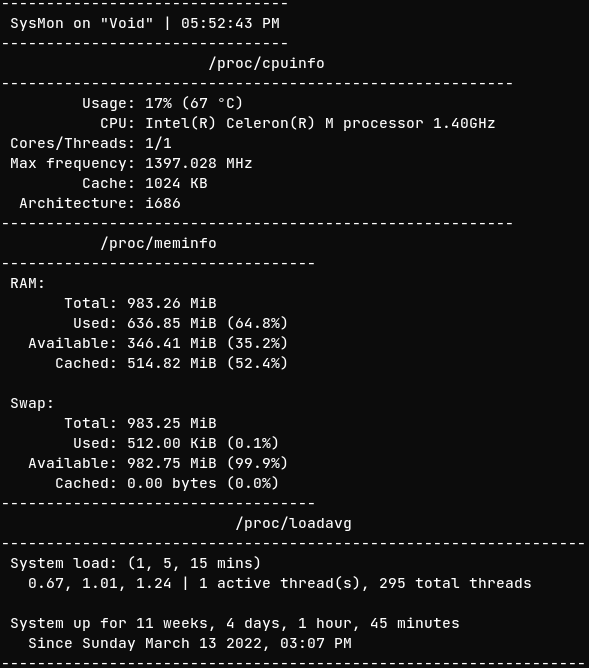
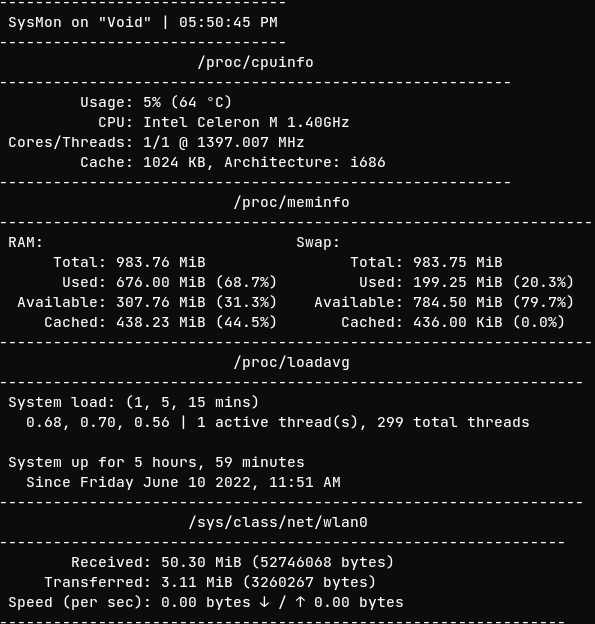
new feature: network statistics, and some changes

diff --git a/README.md b/README.md
@@ -5,18 +5,22 @@ using [**curses**](https://docs.python.org/3/howto/curses.html)
 ![sysmon screenshot](sysmon-screen.png)
 
 ## what is sysmon
-sysmon is *another* system monitor designed to be **ready to use** and easy to understand. it uses [**linux's /proc pseudo filesystem**](https://www.kernel.org/doc/html/latest/filesystems/proc.html) to read information and [**curses**](https://docs.python.org/3/howto/curses.html) display them
+sysmon is *another* system monitor designed to be **ready to use** and easy to understand. it uses [**linux's /proc pseudo filesystem**](https://www.kernel.org/doc/html/latest/filesystems/proc.html) to read information and [**curses**](https://docs.python.org/3/howto/curses.html) to display them
 
 ## help and usage
 Usage: ./sysmon OPTS where OPTS can be:
 + mem ----> Display RAM and swap (if available) usage (total, used, free, cached, %)
 + cpu ----> Display CPU information (model, usage, temperature, cores & threads, max frequency, cache, architecture)
 + load ---> Display Load averange (1, 5 and 15 mins) and uptime (total, since when) of your system
++ net ----> Display network statistics (download, upload, speed)
 + nomem --> Dont display memory stats
 + nocpu --> Dont display cpu stats
 + noload -> Dont display load times and uptime
++ nonet --> Dont display network statistics
 
 By default, when running without options it will display everything, memory usage, cpu and load times. If you dont want to see an option run: ./sysmon XOPT where X can be yes or no and OPT cpu, mem or load for example ./sysmon noload. You can also "print" the options once, with the "once" option. Example: ./sysmon once OPT (which can be mem, cpu or load)
+
+Note: you cannot choose a different adaptor/device for network stats (for now, maybe in the fture it could be a feature)
 
 ## bug/suggestion/correction
 please open a issue, including traceback and a screenshot if you found a bug
